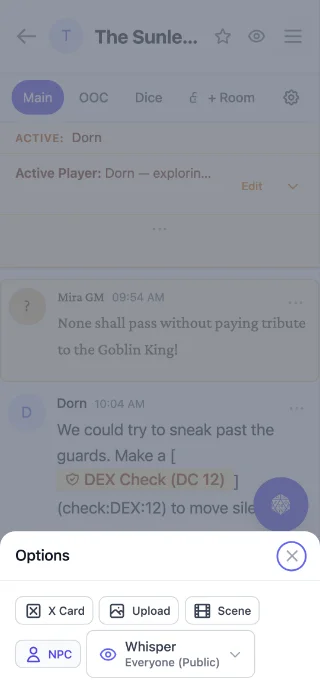
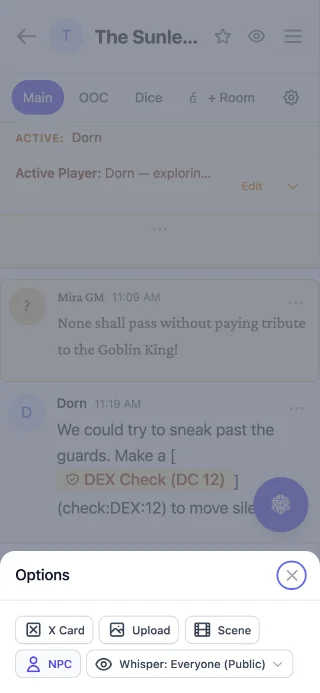
fix(#812): make the whisper trigger match the composer chips
The whisper picker kept its own two-line trigger (label + selected value,
px-3 py-2 text-sm), so it towered over the compact chips next to it.

Menu now renders its trigger with the shared chip styles, shows the
selection inline ('Whisper: Dorn'), truncates long names, highlights with
chipActive when a target is queued, and gets a flex wrapper so the
inline-flex button no longer adds a baseline gap (same 31.75px height as
the chips). The dropdown and bottom sheet are untouched.

Changed region(s): [[0.0, 0.7576, 1.0, 0.9697], [0.375, 0.5758, 0.4375, 0.6061], [0.4375, 0.4242, 0.4688, 0.4545]]

diff --git a/src/components/Menu.tsx b/src/components/Menu.tsx
@@ -2,6 +2,7 @@ import { useEffect, useState } from 'react'
 import { useClickOutside } from '../hooks/useClickOutside'
 import { useEscapeToClose } from '../hooks/useEscapeToClose'
 import { BottomSheet } from './BottomSheet'
+import { chipBase, chipIdle, chipActive } from '../features/chat/composerChip'
 
 export interface MenuOption {
   value: string
@@ -16,12 +17,14 @@ interface MenuProps {
   options: MenuOption[]
   onSelect: (value: string) => void
   popup?: boolean
+  // Highlights the trigger when the menu holds an active (non-default) choice.
+  active?: boolean
 }
 
-// A labelled chip that opens the options as a popup (bottom sheet) on small
-// screens, or an anchored dropdown elsewhere. The current selection is shown
-// alongside the label so the control is never a bare icon.
-export function Menu({ icon, label, value, options, onSelect, popup = false }: MenuProps) {
+// A chip that opens the options as a popup (bottom sheet) on small screens, or
+// an anchored dropdown elsewhere. The current selection is shown inline so the
+// control is never a bare icon, and the trigger matches the composer's chips.
+export function Menu({ icon, label, value, options, onSelect, popup = false, active = false }: MenuProps) {
   const [open, setOpen] = useState(false)
   const [highlighted, setHighlighted] = useState(0)
   const containerRef = useClickOutside<HTMLDivElement>(() => setOpen(false), open)
@@ -77,23 +80,20 @@ export function Menu({ icon, label, value, options, onSelect, popup = false }: M
   const optionsMenu = <div role="menu" aria-label={label} className="py-1">{optionButtons}</div>
 
   return (
-    <div ref={containerRef} className="relative shrink-0">
+    <div ref={containerRef} className="relative flex shrink-0">
       <button
         type="button"
         aria-haspopup={popup ? 'dialog' : 'menu'}
         aria-expanded={open}
         onKeyDown={handleKeyDown}
         onClick={() => setOpen(o => !o)}
-        className="inline-flex items-center gap-2 px-3 py-2 border border-gray-300 dark:border-gray-600 text-sm font-medium rounded-lg text-gray-700 dark:text-gray-300 bg-white dark:bg-gray-800 hover:bg-gray-50 dark:hover:bg-gray-700 hover:text-indigo-600 dark:hover:text-indigo-400 focus:outline-none focus:ring-2 focus:ring-offset-2 focus:ring-indigo-500 transition-colors"
+        className={`${chipBase} ${active ? chipActive : chipIdle}`}
       >
-        {icon && <span className="text-indigo-500 dark:text-indigo-400 flex-shrink-0">{icon}</span>}
-        <span className="text-left">
-          <span className="block font-medium leading-tight">{label}</span>
-          <span className="block text-xs text-gray-500 dark:text-gray-400 leading-tight">
-            {selected ? selected.label : 'Select…'}
-          </span>
+        {icon && <span className="inline-flex flex-shrink-0">{icon}</span>}
+        <span className="truncate max-w-[12rem]">
+          {label}: {selected ? selected.label : 'Select…'}
         </span>
-        <svg className="w-4 h-4 text-gray-400 dark:text-gray-400 flex-shrink-0" fill="none" stroke="currentColor" viewBox="0 0 24 24">
+        <svg className="w-3.5 h-3.5 flex-shrink-0 text-gray-400 dark:text-gray-400" fill="none" stroke="currentColor" viewBox="0 0 24 24">
           <path strokeLinecap="round" strokeLinejoin="round" strokeWidth={2} d="M19 9l-7 7-7-7" />
         </svg>
       </button>

diff --git a/src/features/chat/MessageComposer.test.tsx b/src/features/chat/MessageComposer.test.tsx
@@ -935,7 +935,7 @@ describe('MessageComposer', () => {
     expect(within(row).getByLabelText('Upload Image').closest('label')).toBeInTheDocument()
     expect(within(row).getByRole('button', { name: 'Scene Description' })).toBeInTheDocument()
     expect(within(row).getByRole('button', { name: 'NPC Mode' })).toBeInTheDocument()
-    expect(within(row).getByText('Whisper')).toBeInTheDocument()
+    expect(within(row).getByRole('button', { name: /Whisper/ })).toBeInTheDocument()
   })
 
   it('uploads an image and inserts the markdown at the cursor', async () => {
@@ -1235,7 +1235,7 @@ describe('MessageComposer', () => {
     expect(screen.getByTestId('composer-shell')).toHaveClass('dark:bg-gray-800')
     expect(messageInput).toHaveClass('text-gray-900')
     expect(messageInput).toHaveClass('dark:text-gray-100')
-    expect(screen.getByRole('button', { name: /Whisper/ })).toHaveClass('dark:bg-gray-800')
+    expect(screen.getByRole('button', { name: /Whisper/ })).toHaveClass('dark:bg-surface-800')
 
     fireEvent.click(screen.getByLabelText('NPC Mode'))
     expect(screen.getByTestId('composer-shell')).toHaveClass('dark:bg-parchment-dark')
@@ -1595,7 +1595,7 @@ describe('MessageComposer room capabilities (#621 Phase 2)', () => {
     openOptions()
     expect(screen.queryByRole('button', { name: 'Scene Description' })).not.toBeInTheDocument()
     expect(screen.queryByRole('button', { name: 'NPC Mode' })).not.toBeInTheDocument()
-    expect(screen.queryByText('Whisper')).not.toBeInTheDocument()
+    expect(screen.queryByRole('button', { name: /Whisper/ })).not.toBeInTheDocument()
     expect(screen.getByText(/Turned off in this room: Dice, Scenes, NPCs, Whispers\./)).toBeInTheDocument()
   })
 
@@ -1612,7 +1612,7 @@ describe('MessageComposer room capabilities (#621 Phase 2)', () => {
     openOptions()
     expect(screen.getByRole('button', { name: 'Scene Description' })).toBeInTheDocument()
     expect(screen.getByRole('button', { name: 'NPC Mode' })).toBeInTheDocument()
-    expect(screen.getByText('Whisper')).toBeInTheDocument()
+    expect(screen.getByRole('button', { name: /Whisper/ })).toBeInTheDocument()
     expect(screen.queryByText(/Turned off in this room/)).not.toBeInTheDocument()
   })
 

diff --git a/src/components/Menu.test.tsx b/src/components/Menu.test.tsx
@@ -18,6 +18,24 @@ describe('Menu', () => {
     expect(screen.getByRole('button', { name: /Whisper/ })).toHaveTextContent('Hero')
   })
 
+  it('renders the trigger as a compact chip', () => {
+    render(<Menu label="Whisper" value="" options={options} onSelect={vi.fn()} />)
+    expect(screen.getByRole('button', { name: /Whisper/ })).toHaveClass('px-2', 'py-1', 'text-xs')
+  })
+
+  it('shows the default option inline when nothing is selected', () => {
+    render(<Menu label="Whisper" value="" options={options} onSelect={vi.fn()} />)
+    expect(screen.getByRole('button', { name: /Whisper/ })).toHaveTextContent('Whisper: Everyone (Public)')
+  })
+
+  it('highlights the trigger only when active', () => {
+    const { rerender } = render(<Menu label="Whisper" value="" options={options} onSelect={vi.fn()} />)
+    expect(screen.getByRole('button', { name: /Whisper/ })).toHaveClass('bg-white')
+
+    rerender(<Menu label="Whisper" value="u1" options={options} onSelect={vi.fn()} active />)
+    expect(screen.getByRole('button', { name: /Whisper/ })).toHaveClass('bg-primary-50')
+  })
+
   it('opens and lists the options', () => {
     render(<Menu label="Whisper" value="" options={options} onSelect={vi.fn()} />)
     fireEvent.click(screen.getByRole('button', { name: /Whisper/ }))

diff --git a/src/features/chat/MessageComposer.tsx b/src/features/chat/MessageComposer.tsx
@@ -689,6 +689,7 @@ export const MessageComposer = forwardRef<MessageComposerHandle, MessageComposer
             value={whisperTo}
             onSelect={setWhisperTo}
             popup={isMobile}
+            active={whisperTo !== ''}
             options={[
               { value: '', label: 'Everyone (Public)' },
               ...members.map(m => ({ value: m.user_id, label: m.character_name, hint: m.profile?.display_name || undefined })),

diff --git a/docs/CHANGELOG.md b/docs/CHANGELOG.md
@@ -6,7 +6,7 @@ All notable changes to this project are documented in this file.
 
 ### Changed
 
-- **The composer's options take less room** — the buttons behind the composer's **+** menu (X-Card, Upload, Scene, NPC and Whisper) are now smaller and sit on one line whenever they fit, instead of one line per group. On a narrow phone they still wrap, but the panel is noticeably shorter.
+- **The composer's options take less room** — the buttons behind the composer's **+** menu (X-Card, Upload, Scene, NPC and Whisper) are now the same compact size and sit on one line whenever they fit, instead of one line per group. The Whisper button shows who you are whispering to and lights up while a whisper is queued. On a narrow phone they still wrap, but the panel is noticeably shorter.
 
 ## 2026-11-11
 
